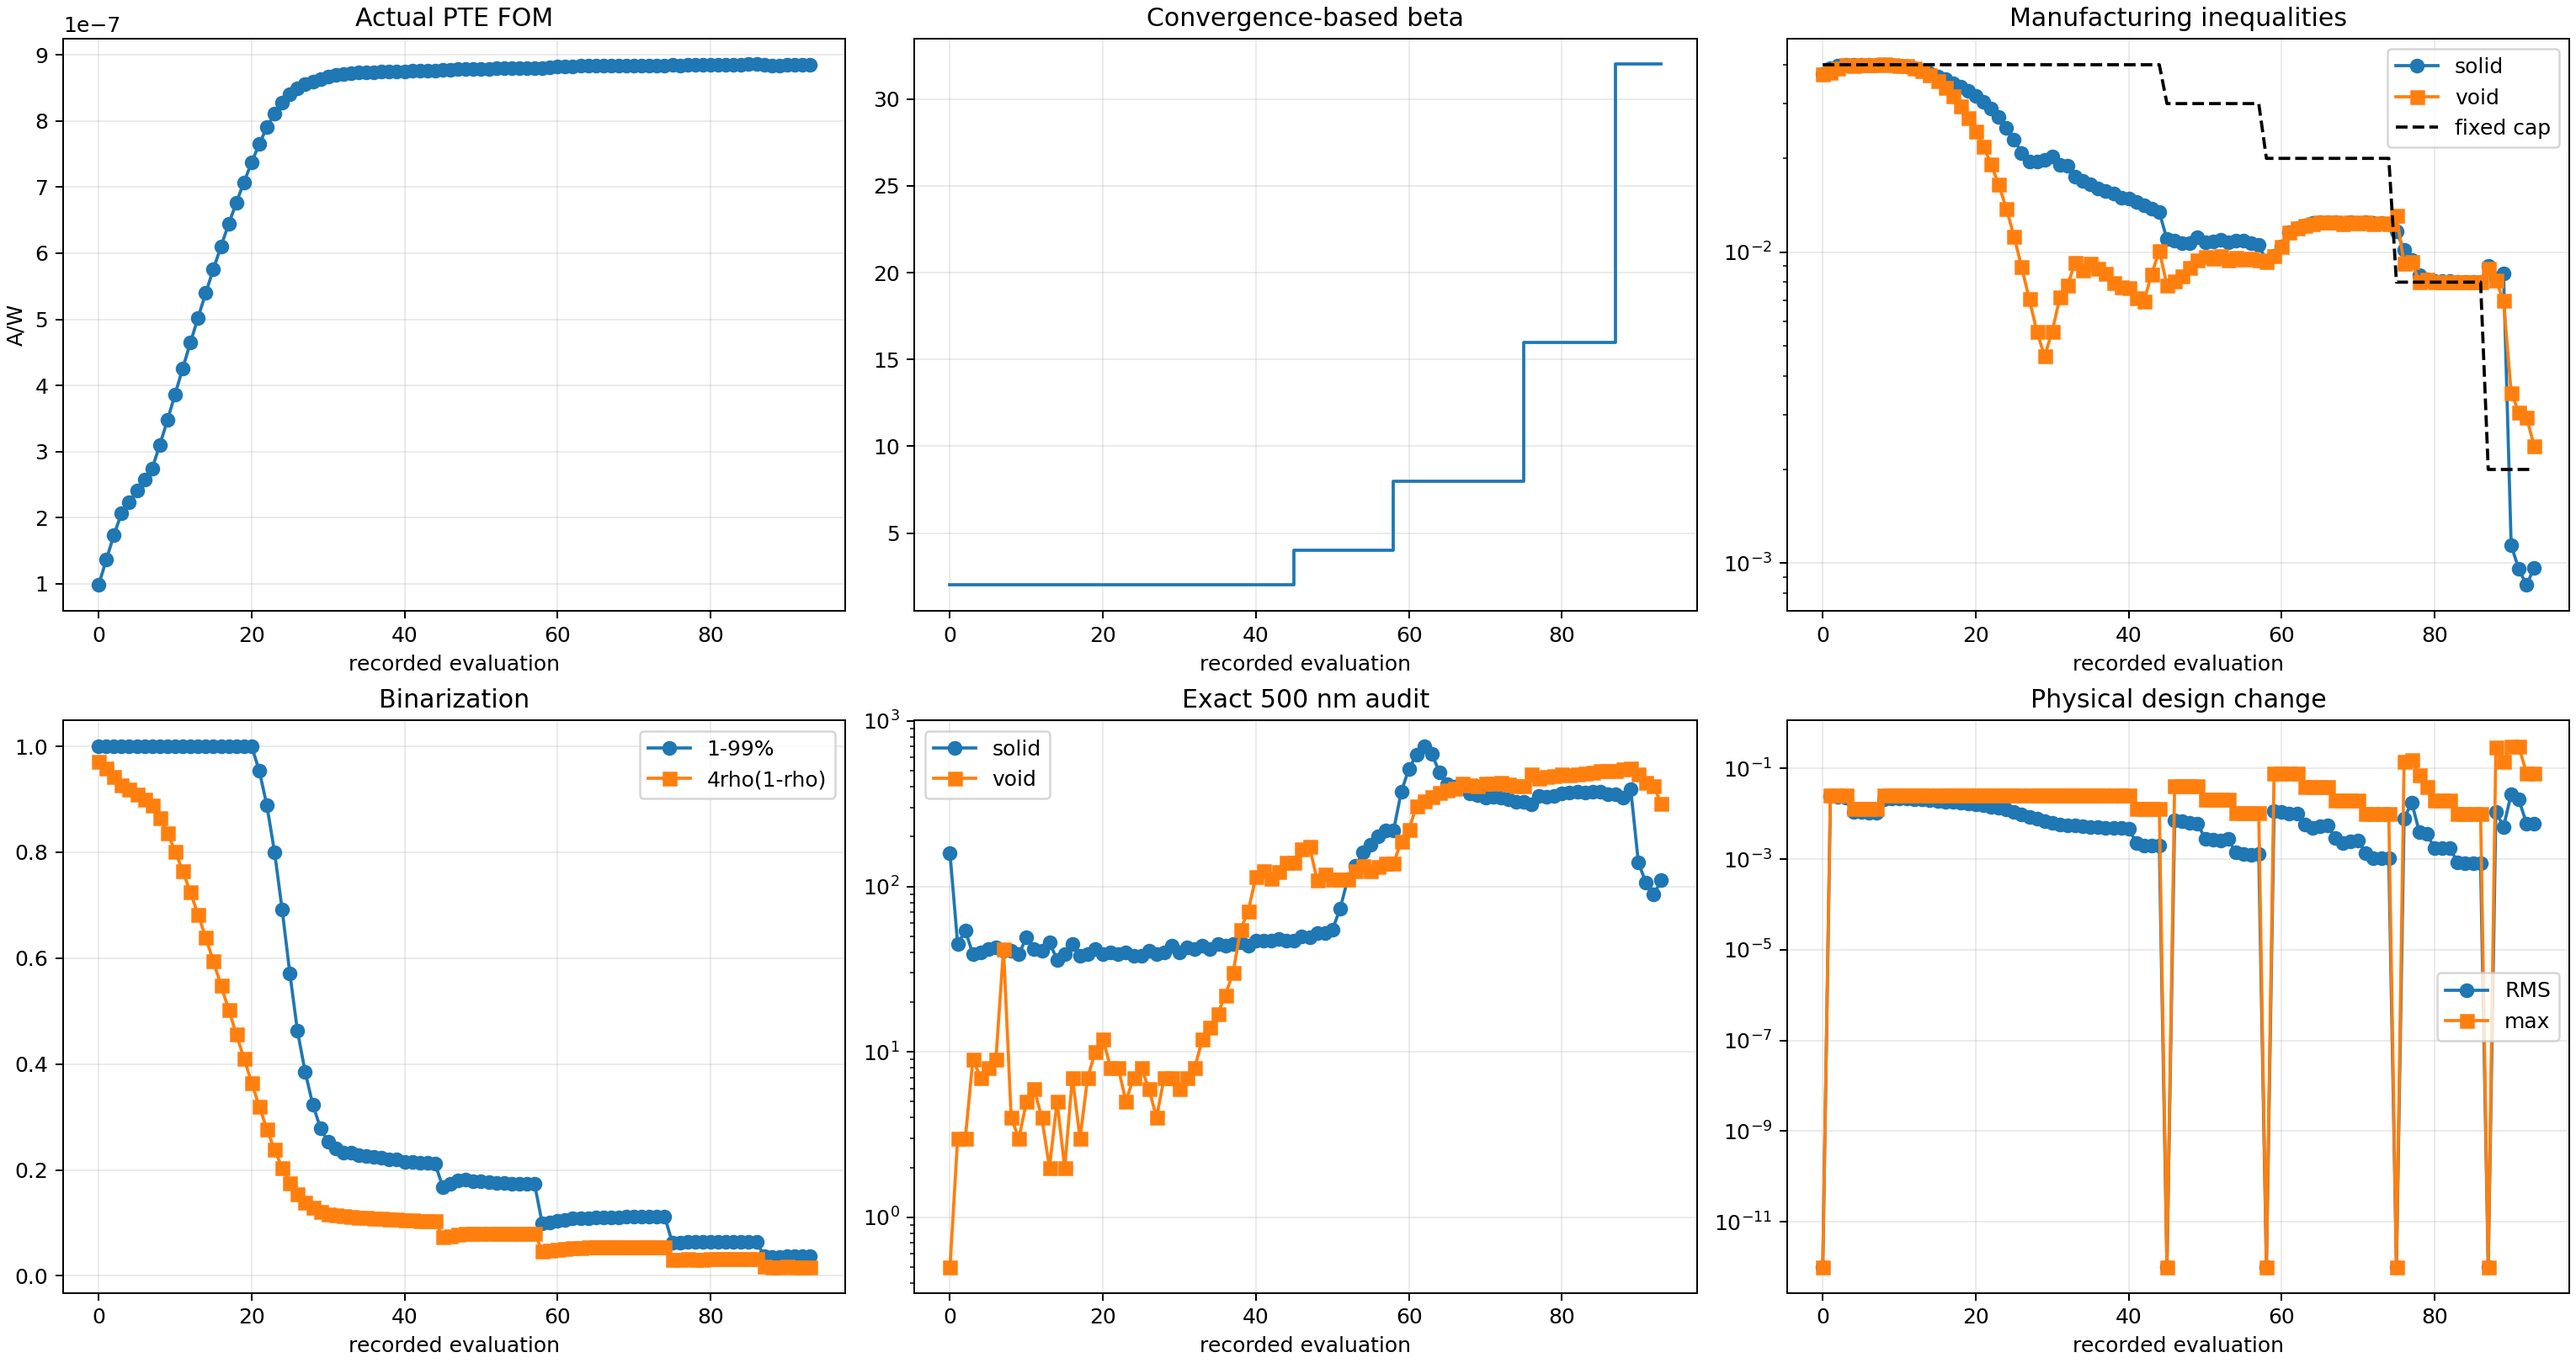
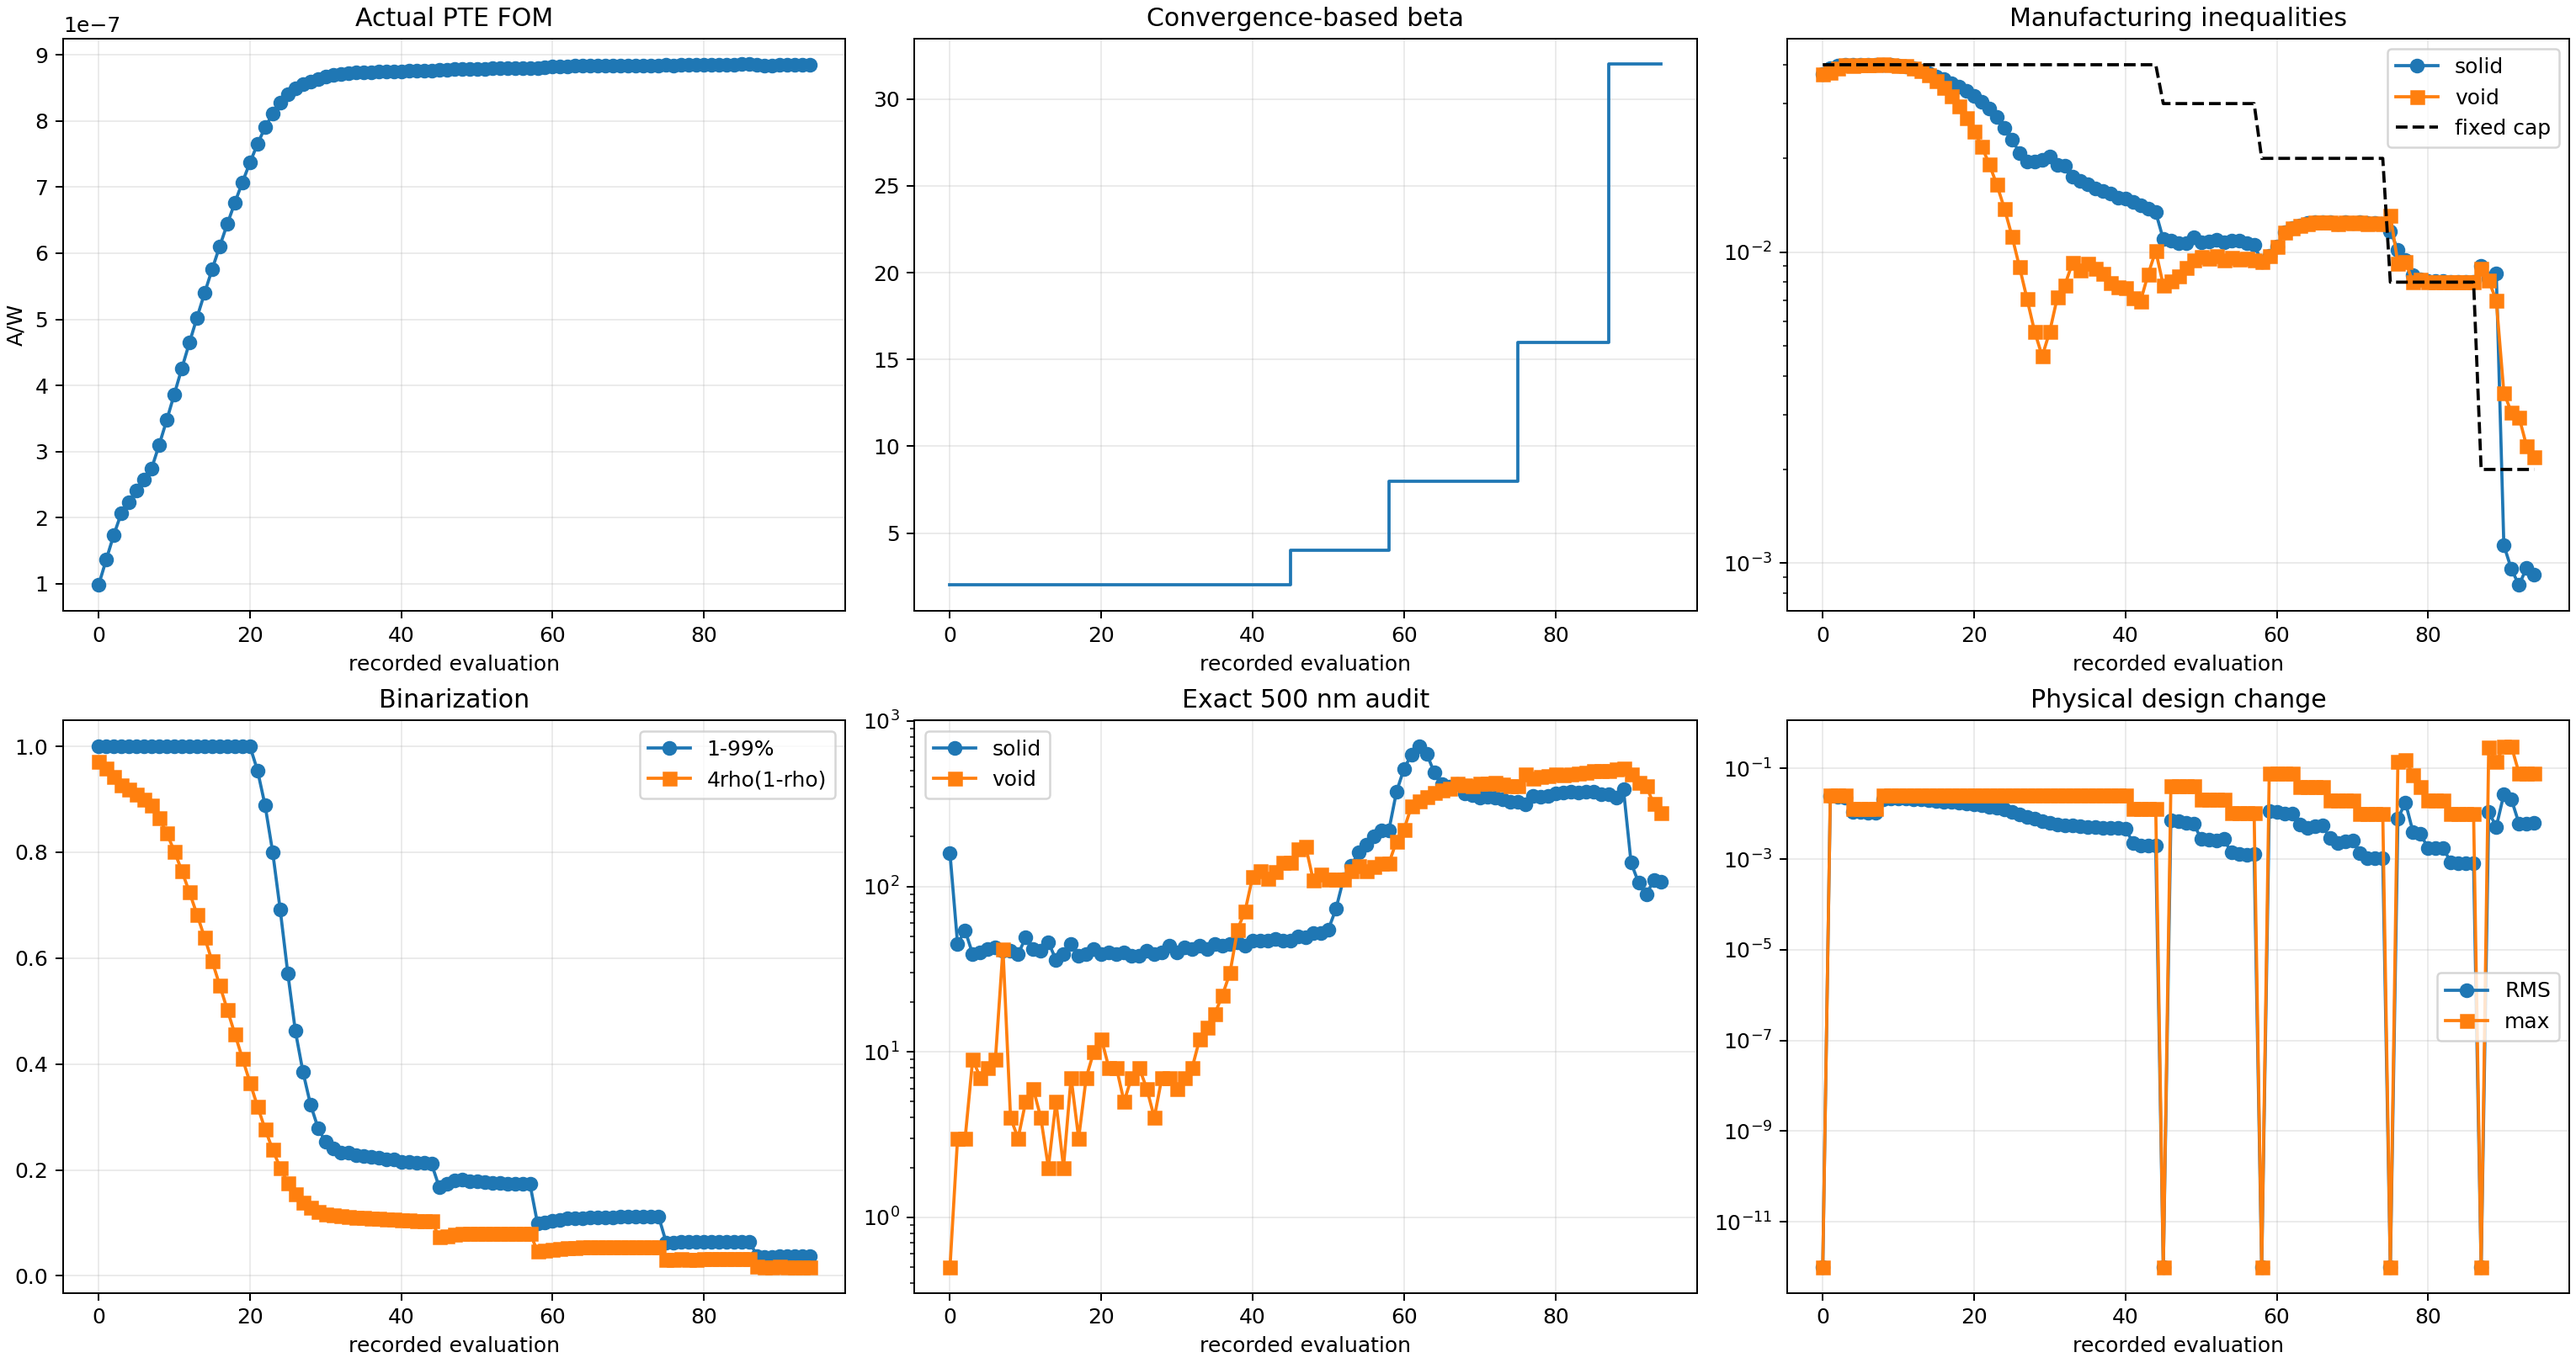
Record Run 003 run003_b032_s007_g090_accepted_mma

diff --git a/photothermal_pte/optimization_runs/run_003_gaussian10_w8p5_current_max_converged/results/OPTIMIZATION_REPORT.md b/photothermal_pte/optimization_runs/run_003_gaussian10_w8p5_current_max_converged/results/OPTIMIZATION_REPORT.md
@@ -2,12 +2,12 @@
 
 Status: `RUNNING_CONVERGENCE_BASED_CONSTRAINED_BETA_CONTINUATION`
 
-Current stage: beta=32, accepted stage iteration=6, global iteration=89.
+Current stage: beta=32, accepted stage iteration=7, global iteration=90.
 
 Constraint contract: `soft_disk_opening_500nm_v3_exact_nonincrease`.
 
-Actual FOM: `8.851204178282e-07 A/W`. Fixed-cap solid/void constraints: `9.649009e-04` / `2.381998e-03` with cap `2.000000e-03`.
+Actual FOM: `8.851483902439e-07 A/W`. Fixed-cap solid/void constraints: `9.185506e-04` / `2.192341e-03` with cap `2.000000e-03`.
 
-Exact 500 nm bad cells: solid `109`, void `315`. Stage convergence: `False` (need at least 8 accepted updates).
+Exact 500 nm bad cells: solid `107`, void `280`. Stage convergence: `False` (need at least 8 accepted updates).
 
 Beta is promoted only after fixed-inequality feasibility and a four-update FOM/design plateau; it is never promoted after one nominal update.
